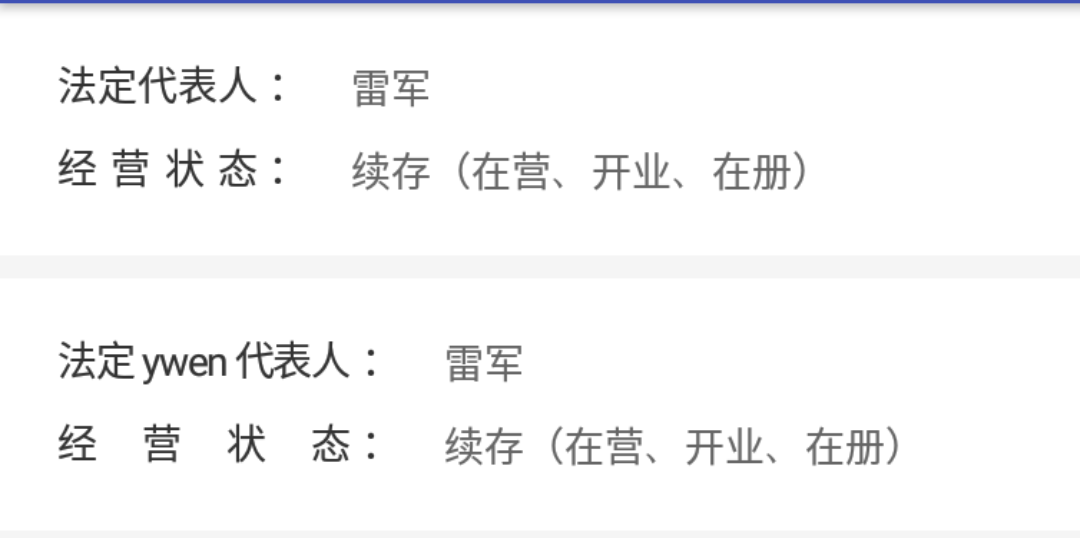
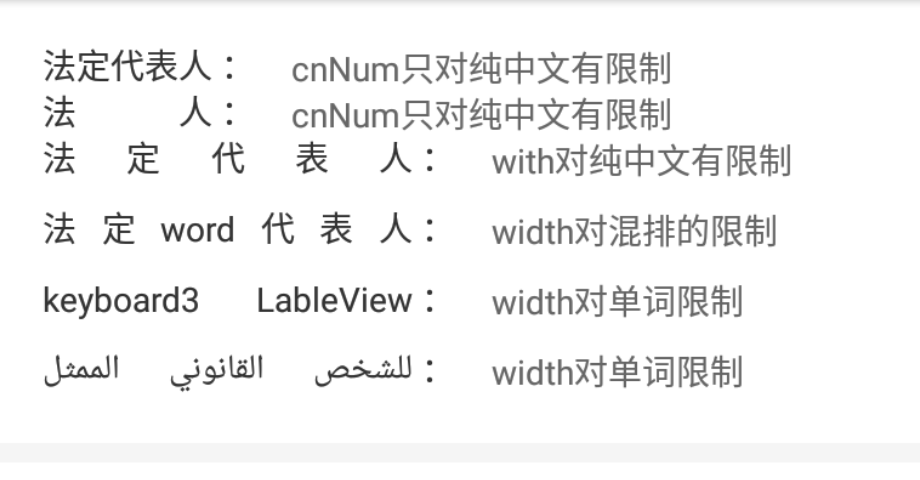
支持多语言

diff --git a/lableview/src/main/java/com/keyboard3/LableView.java b/lableview/src/main/java/com/keyboard3/LableView.java
@@ -11,9 +11,10 @@ import android.text.StaticLayout;
 import android.text.TextPaint;
 import android.text.TextUtils;
 import android.util.AttributeSet;
-import android.util.Log;
 import android.view.ViewGroup;
 import android.widget.TextView;
+
+import java.util.List;
 
 /**
  * @author keyboard3 on 2017/12/5
@@ -23,10 +24,10 @@ import android.widget.TextView;
 public class LableView extends TextView {
 
     private int mY;
-    private int mContentWidth;
+    private float mContentWidth;
     private String mEndText;
-    private int mCharNum = 0;
-    private int mEndWidth = 0;
+    private int mCNNum = 0;
+    private float mEndWidth = 0;
 
     public LableView(Context context) {
         this(context, null);
@@ -40,26 +41,25 @@ public class LableView extends TextView {
         super(context, attrs, defStyleAttr);
         final TypedArray custom = context.obtainStyledAttributes(
                 attrs, R.styleable.LableView, defStyleAttr, 0);
-        mCharNum = custom.getInt(R.styleable.LableView_charNum, 0);
+        mCNNum = custom.getInt(R.styleable.LableView_cnNum, 0);
         mEndText = custom.getString(R.styleable.LableView_endText);
-        Log.d("gcy", "mEndText:" + mEndText);
     }
 
     @Override
     protected void onMeasure(int widthMeasureSpec, int heightMeasureSpec) {
         super.onMeasure(widthMeasureSpec, heightMeasureSpec);
         if (!TextUtils.isEmpty(mEndText)) {
-            mEndWidth = (int) getPaint().measureText(mEndText);
+            mEndWidth = getPaint().measureText(mEndText);
         }
-        if (getLayoutParams().width == ViewGroup.LayoutParams.WRAP_CONTENT) {
-            int width = 0;
-            if (mCharNum != 0) {
-                width = (int) getPaint().measureText("测") * mCharNum;
-            } else {
-                width = (int) getPaint().measureText(getText() + mEndText);
-            }
+        float width = 0;
+        if (mCNNum != 0 && WordUtil.isChinese(getText().toString())) {
+            width = getPaint().measureText("测") * mCNNum;
             width += mEndWidth;
-            setMeasuredDimension(width, getMeasuredHeight());
+            setMeasuredDimension((int) width, getMeasuredHeight());
+        } else if (getLayoutParams().width == ViewGroup.LayoutParams.WRAP_CONTENT) {
+            width = (int) getPaint().measureText(getText() + mEndText);
+            width += mEndWidth;
+            setMeasuredDimension((int) width, getMeasuredHeight());
         }
     }
 
@@ -84,16 +84,7 @@ public class LableView extends TextView {
         int textHeight = (int) (Math.ceil(fm.descent - fm.ascent));
         textHeight = (int) (textHeight * layout.getSpacingMultiplier() + layout
                 .getSpacingAdd());
-        int lineStart = layout.getLineStart(0);
-        int lineEnd = layout.getLineEnd(0);
-        float width = StaticLayout.getDesiredWidth(text, lineStart,
-                lineEnd, getPaint());
-        String line = text.substring(lineStart, lineEnd);
-        if (needScale(line)) {
-            drawScaledText(canvas, lineStart, line, width);
-        } else {
-            canvas.drawText(line, 0, mY, paint);
-        }
+        drawScaledText(canvas, 0, WordUtil.getWords(getText().toString()), mContentWidth);
         mY += textHeight;
         mY -= textHeight;
         if (!TextUtils.isEmpty(mEndText)) {
@@ -101,48 +92,19 @@ public class LableView extends TextView {
         }
     }
 
-    private void drawScaledText(Canvas canvas, int lineStart, String line,
-                                float lineWidth) {
+    private void drawScaledText(Canvas canvas, int start, List<String> words,
+                                float width) {
+        float used = 0, space = 0;
+        float[] wordWidths = new float[words.size()];
+        for (int i = 0; i < words.size(); i++) {
+            wordWidths[i] = StaticLayout.getDesiredWidth(words.get(i), getPaint());
+            used += wordWidths[i];
+        }
+        space = (width - used) / (words.size() - 1);
         float x = 0;
-        if (isFirstLineOfParagraph(lineStart, line)) {
-            String blanks = "  ";
-            canvas.drawText(blanks, x, mY, getPaint());
-            float bw = StaticLayout.getDesiredWidth(blanks, getPaint());
-            x += bw;
-
-            line = line.substring(3);
-        }
-
-        int gapCount = line.length() - 1;
-        int i = 0;
-        if (line.length() > 2 && line.charAt(0) == 12288
-                && line.charAt(1) == 12288) {
-            String substring = line.substring(0, 2);
-            float cw = StaticLayout.getDesiredWidth(substring, getPaint());
-            canvas.drawText(substring, x, mY, getPaint());
-            x += cw;
-            i += 2;
-        }
-
-        float d = (mContentWidth - lineWidth) / gapCount;
-        for (; i < line.length(); i++) {
-            String c = String.valueOf(line.charAt(i));
-            float cw = StaticLayout.getDesiredWidth(c, getPaint());
-            canvas.drawText(c, x, mY, getPaint());
-            x += cw + d;
-        }
-    }
-
-    private boolean isFirstLineOfParagraph(int lineStart, String line) {
-        return line.length() > 3 && line.charAt(0) == ' '
-                && line.charAt(1) == ' ';
-    }
-
-    private boolean needScale(String line) {
-        if (line == null || line.length() == 0) {
-            return false;
-        } else {
-            return line.charAt(line.length() - 1) != '\n';
+        for (int i = 0; i < words.size(); i++) {
+            canvas.drawText(words.get(i), x, mY, getPaint());
+            x += space + wordWidths[i];
         }
     }
 }

diff --git a/lableview/src/main/java/com/keyboard3/WordUtil.java b/lableview/src/main/java/com/keyboard3/WordUtil.java
@@ -1,0 +1,55 @@
+package com.keyboard3;
+
+import android.support.annotation.NonNull;
+
+import java.util.ArrayList;
+import java.util.List;
+
+/**
+ * @author keyboard3 on 2017/12/9
+ */
+
+public class WordUtil {
+
+    public static List<String> getWords(@NonNull String source) {
+        char[] dst = new char[source.length()];
+        List<String> words = new ArrayList<>();
+        //中文、空白字符当做分界符
+        source.getChars(0, source.length(), dst, 0);
+        int word_begin = 0, start = 0;
+        char preChar = ' ';
+        for (int i = 0; i < dst.length; i++) {
+            char item = dst[i];
+            if (isChinese(item)) {
+                if (!isChinese(preChar) && !Character.isSpaceChar(preChar)) {
+                    start = word_begin == 0 ? 0 : word_begin + 1;
+                    words.add(source.substring(word_begin, i));
+                }
+                words.add(new String(new char[]{item}));
+                word_begin = i + 1;
+            } else if (Character.isSpaceChar(item)) {
+                if ((!Character.isSpaceChar(preChar) && !isChinese(preChar))) {
+                    start = word_begin == 0 ? 0 : word_begin;
+                    words.add(source.substring(word_begin, i));
+                }
+                word_begin = i + 1;
+            } else if (!Character.isSpaceChar(item) && i == dst.length - 1) {
+                words.add(source.substring(word_begin, i+1));
+            }
+            preChar = item;
+        }
+        return words;
+    }
+
+    public static boolean isChinese(String string) {
+        if (string.replaceAll("[\u4e00-\u9fa5]*", "").length() == 0) {
+            return true;
+        } else {
+            return false;
+        }
+    }
+
+    private static boolean isChinese(char item) {
+        return (item >= 0x4e00) && (item <= 0x9fbb);
+    }
+}

diff --git a/lableview/src/test/java/com/keyboard3/ExampleUnitTest.java b/lableview/src/test/java/com/keyboard3/ExampleUnitTest.java
@@ -2,7 +2,9 @@ package com.keyboard3;
 
 import org.junit.Test;
 
-import static org.junit.Assert.*;
+import java.util.List;
+
+import static org.junit.Assert.assertEquals;
 
 /**
  * Example local unit test, which will execute on the development machine (host).
@@ -13,5 +15,11 @@ public class ExampleUnitTest {
     @Test
     public void addition_isCorrect() throws Exception {
         assertEquals(4, 2 + 2);
+        String source = "地方 LableView 地 ";
+        List<String> words = WordUtil.getWords(source);
+        for (String item :
+                words) {
+            System.out.println(item);
+        }
     }
 }

diff --git a/README.md b/README.md
@@ -12,7 +12,7 @@ Android Lable 文字分散两端对齐控件
 
 ## Gradle
 ```
-compile 'com.keyboard3:LableView:1.1'
+compile 'com.keyboard3:LableView:1.1.1'
 ```
 
 ## Usage
@@ -22,7 +22,7 @@ compile 'com.keyboard3:LableView:1.1'
     android:layout_width="170dp"
     android:layout_height="wrap_content"
     android:text="法定代表人"
-    app:cmNum="5"
+    app:cnNum="5"
     app:endText=" ：" />
 ```
 ## Screenshot
